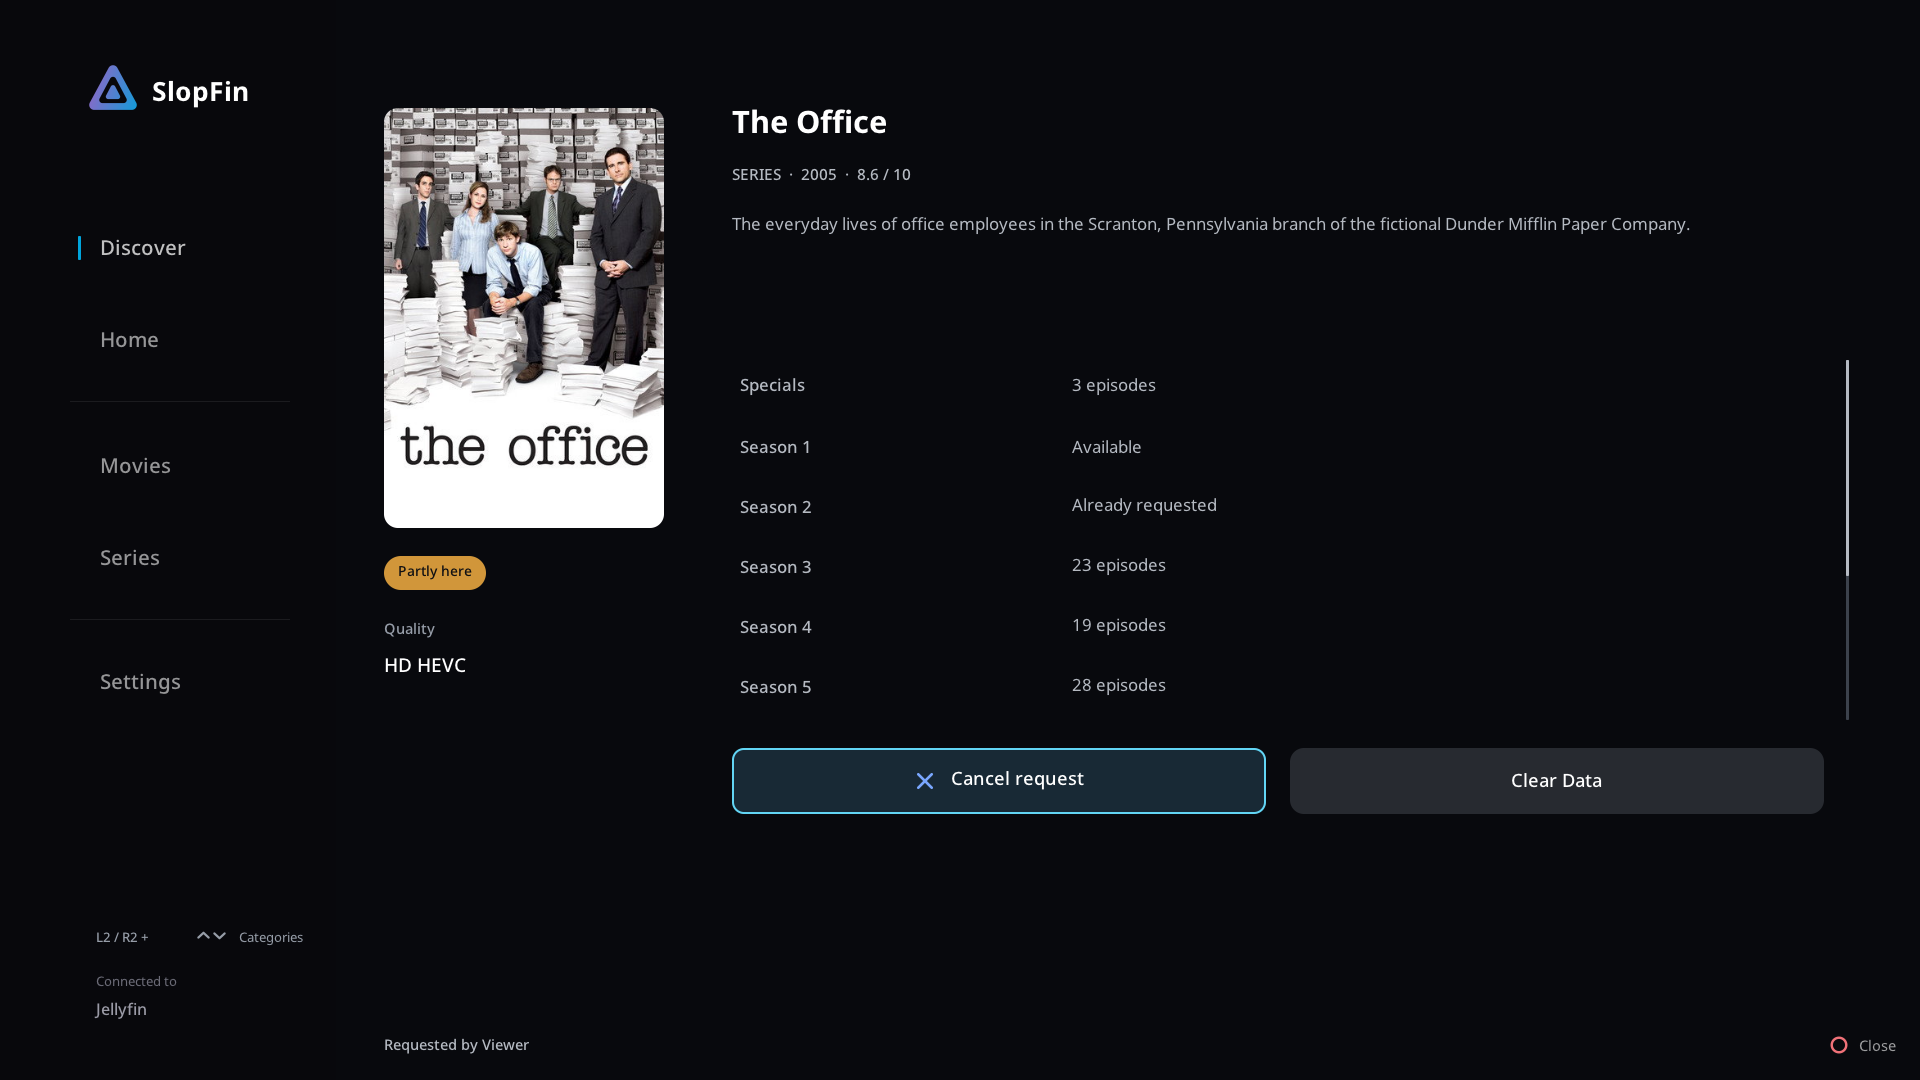
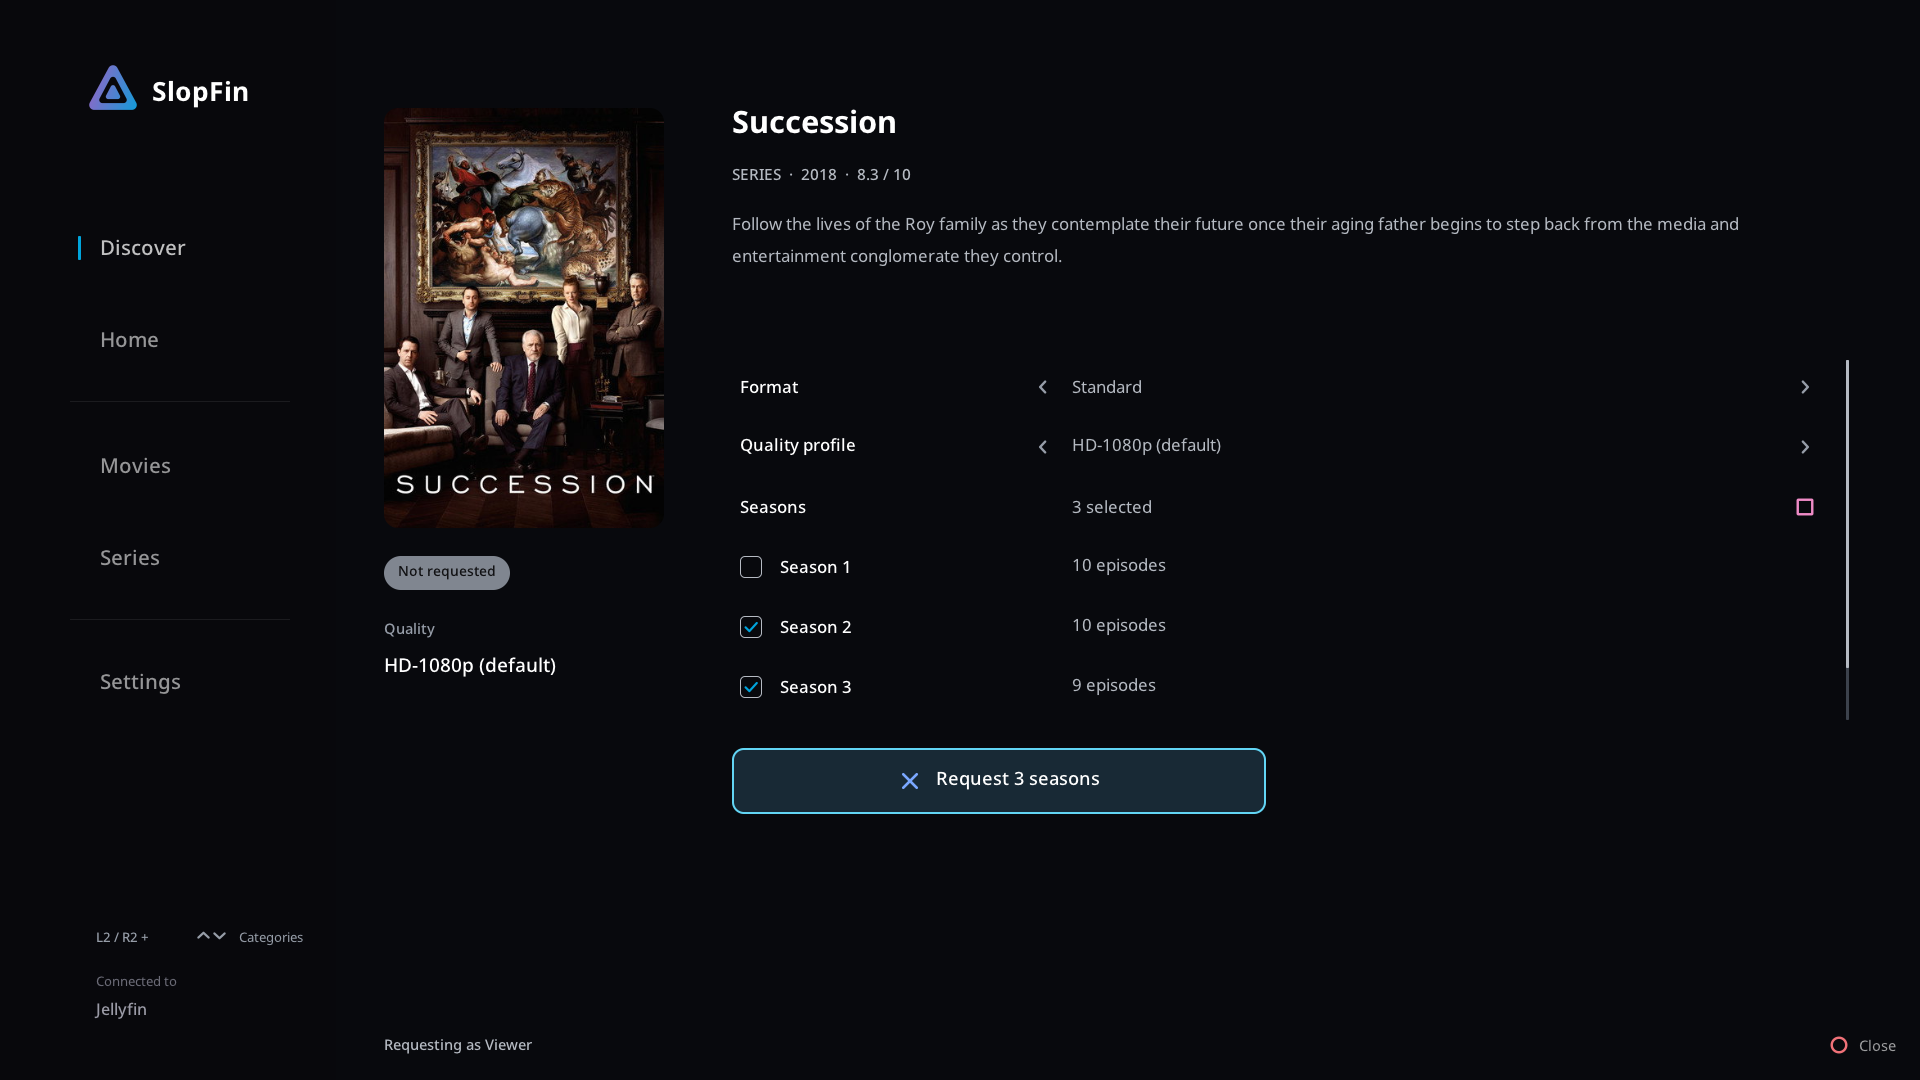
Show new season requests and PS5 download and update screens [skip ci]

diff --git a/README.md b/README.md
@@ -38,11 +38,16 @@ H.264/HEVC hardware decoder. Firmware **8.20** is the tested setup.
   Administrators can manage sessions, libraries and tasks from the controller.
   [Controls](docs/CONTROLS.md) · [Dashboard](docs/PROFILE_AND_DASHBOARD.md).
 
-| Discover | Seasons and saved quality |
+| Discover | Choose seasons and quality |
 | --- | --- |
 | ![Discover catalog](docs/images/discover-preview.png) | ![Request details](docs/images/request-preview.png) |
 
-Linux previews of the shared interface with sample requests.
+Linux previews of the shared interface. The request example shows an unrequested
+series with individual seasons selected.
+
+![Request download progress on PS5](docs/images/downloads-console.png)
+
+Download progress captured on PS5.
 
 ## What plays, and where it is decoded
 
@@ -93,6 +98,8 @@ and version-specific patch notes.
 
 Open **Settings → Updates** to check for updates in the app. Installation needs
 **ELF Loader (`elfldr`, port 9021)**. [Update guide](docs/UPDATES.md).
+
+![Updates on PS5](docs/images/updates-console.png)
 
 ## Contribute
 

diff --git a/docs/images/README.md b/docs/images/README.md
@@ -18,7 +18,13 @@ and original project-authored geometric artwork covered by the project license.
 `request-preview.png` show the 1.10 Linux renderer on 2026-10-16. Connection and
 request data are fictional; Discover uses public TMDB catalog metadata and
 artwork displayed through the client. Media artwork belongs to its respective
-owners and is not bundled as app assets. No credentials are visible.
+owners and is not bundled as app assets. No credentials are visible. `request-preview.png` shows an unrequested series
+with a subset of seasons selected; no request was submitted for the capture.
+
+`downloads-console.png` and `updates-console.png` are direct full-resolution PS5
+captures of SlopFin 1.10, showing an active request download and the installed
+version/update check. The owner authorized publishing the displayed
+account/library names. No credentials are visible.
 
 The Linux preview does not play video or implement the PlayStation system
 keyboard. System keyboard overlays are also absent from SlopFin's own console
